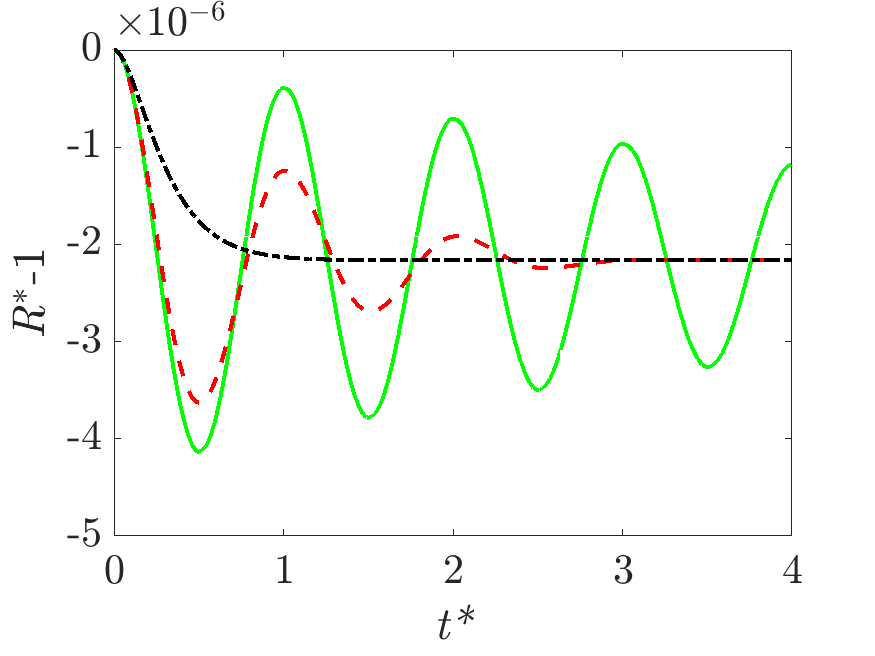
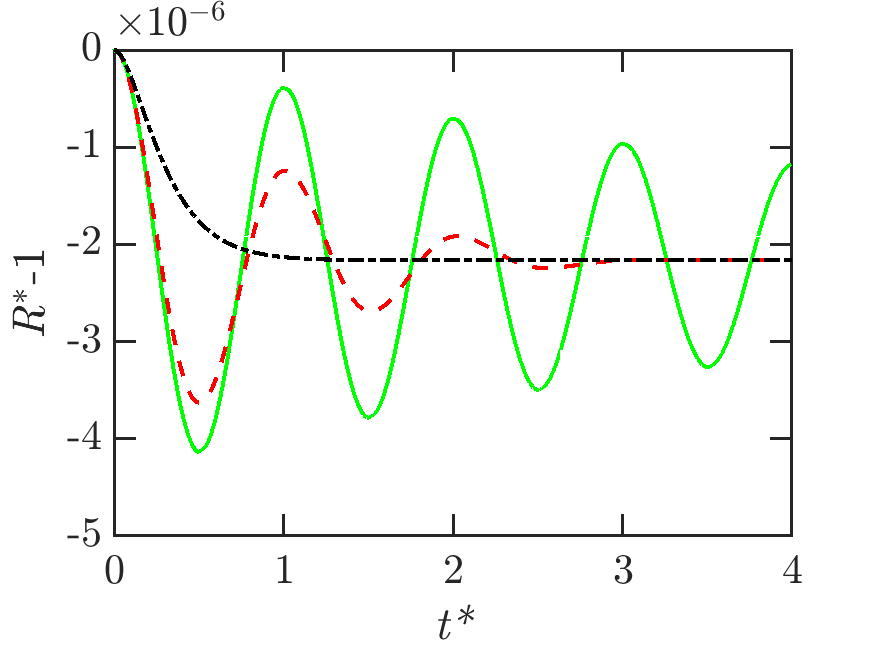
improved fitting and figure display

diff --git a/bubblewall_main.m b/bubblewall_main.m
@@ -31,6 +31,9 @@ box on;
 set(gcf,'color','w'); %Changes background to white 
 set(gca, 'FontName', 'Times', 'FontSize',20); 
 set(gca,'TickLabelInterpreter','latex')
+xa = gca;
+xa.TickLength = [.03 .03];
+xa.LineWidth = 1.5;
 
 figure(2)
 hold on
@@ -43,6 +46,9 @@ box on;
 set(gcf,'color','w'); %Changes background to white 
 set(gca, 'FontName', 'Times', 'FontSize',20); 
 set(gca,'TickLabelInterpreter','latex')
+xa = gca;
+xa.TickLength = [.03 .03];
+xa.LineWidth = 1.5;
 xticks([0:1:4])
 
 figure(3)
@@ -57,7 +63,10 @@ ylim([0 1.1])
 set(gcf,'color','w'); %Changes background to white 
 set(gca, 'FontName', 'Times', 'FontSize',20); 
 set(gca,'TickLabelInterpreter','latex')
+xa = gca;
 xticks([0:1:4])
+xa.TickLength = [.03 .03];
+xa.LineWidth = 1.5;
 
 figure(4)
 hold on
@@ -71,6 +80,9 @@ set(gcf,'color','w'); %Changes background to white
 set(gca, 'FontName', 'Times', 'FontSize',20); 
 set(gca,'TickLabelInterpreter','latex')
 xticks([0:1:4])
+xa = gca;
+xa.TickLength = [.03 .03];
+xa.LineWidth = 1.5;
 
 figure(5)
 hold on
@@ -83,7 +95,9 @@ box on;
 set(gcf,'color','w'); %Changes background to white 
 set(gca, 'FontName', 'Times', 'FontSize',20); 
 set(gca,'TickLabelInterpreter','latex')
-% xticks([0:1:4])
+xa = gca;
+xa.TickLength = [.03 .03];
+xa.LineWidth = 1.5;
 
 %RUNNING AND PLOTTING
 %Water

diff --git a/carreaufit.m b/carreaufit.m
@@ -55,6 +55,9 @@ box on;
 set(gcf,'color','w'); %Changes background to white 
 set(gca, 'FontName', 'Times', 'FontSize', 20); 
 set(gca,'TickLabelInterpreter','latex')
+xa = gca;
+xa.TickLength = [.03 .03];
+xa.LineWidth = 1.5;
 print('./fitfigs/carreauFit1', '-dpng'); 
 
 
@@ -74,6 +77,9 @@ box on;
 set(gcf,'color','w'); %Changes background to white 
 set(gca, 'FontName', 'Times', 'FontSize', 20); 
 set(gca,'TickLabelInterpreter','latex')
+xa = gca;
+xa.TickLength = [.03 .03];
+xa.LineWidth = 1.5;
 print('./fitfigs/carreauFit2', '-dpng'); 
 
 
@@ -115,4 +121,7 @@ box on;
 set(gcf,'color','w'); %Changes background to white 
 set(gca, 'FontName', 'Times', 'FontSize', 20); 
 set(gca,'TickLabelInterpreter','latex')
+xa = gca;
+xa.TickLength = [.03 .03];
+xa.LineWidth = 1.5;
 print('./fitfigs/carreauFit3', '-dpng'); 
